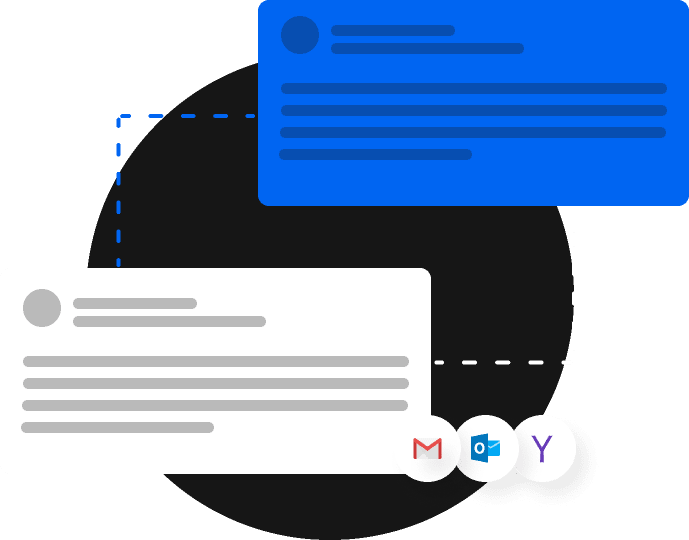
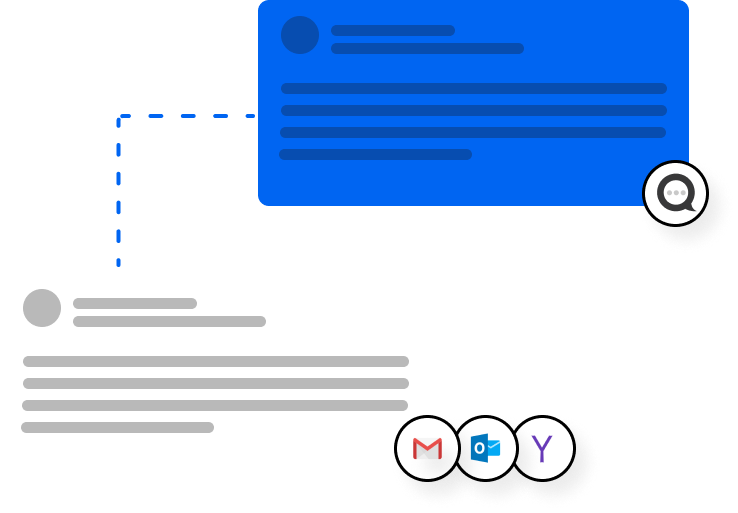
minor changes

diff --git a/index.html b/index.html
@@ -88,7 +88,7 @@
         <div class="meet-the-team">
             <img class="meet-the-team-img" src="./assets/buissnes.png" alt="">
             <div class="art-99">
-                <h2>Ask for Dmails pitch deck for investment purposes.</h2>
+                <h1>Investment Details</h1>
                 <p>Since Dmails started it's a minimum viable product in June 2019, we have received many requested from
                     VCs and angel
                     investors willing to discuss our future plans for investment proposes, it was taking some time for
@@ -96,7 +96,7 @@
                     essential information about our company, this is why we have prepared a fully detailed investor
                     pitch deck ready for
                     them.</p>
-                <p>Submit The Following Form </p>
+                <p>Kindly fill the following form and we will get back to you as soon as possible </p>
                 <hr>
                 <div class="news-letter-r-1">
                     <p class="grey qoute">The Following Pieces of information are required from your side to proceed
@@ -129,7 +129,7 @@
         <div class="meet-the-team">
             <img class="meet-the-team-img" src="./assets/buissnes.png" alt="">
             <div class="art-99">
-                <h2>Ask for Dmails pitch deck for investment purposes.</h2>
+                <h2>Investment Details</h2>
                 <p>Since Dmails started it's a minimum viable product in June 2019, we have received many requested from
                     VCs and angel
                     investors willing to discuss our future plans for investment proposes, it was taking some time for
@@ -137,11 +137,11 @@
                     essential information about our company, this is why we have prepared a fully detailed investor
                     pitch deck ready for
                     them.</p>
-                <p>Submit The Following Form </p>
+                <p>Kindly fill the following form and we will get back to you as soon as possible </p>
                 <hr>
                 <div class="news-letter-r-1">
                     <p class="grey qoute">The Following Pieces of information are required from your side to proceed
-                        further.</p>
+                    further.</p>
 
                     <form class="form-group" id="buissnes-2">
                         <div class="input">
@@ -160,7 +160,6 @@
                 <div class="popup-button">
                     <div onclick="submitId5()" class="Submit" 
                         >Submit</div>
-                    <p>By submitting this form, you agree with Dmail's Privacy Policy</p>
                 </div>
 
             </div>
@@ -349,7 +348,7 @@
             <p data-aos="fade-right" data-aos-duration="1500" class="s1-head">Total Earned +$85,000 From App Mining</p>
             <h1 data-aos="fade-right" data-aos-duration="1500" class="Feature-Title">Rated the best App by the People
             </h1>
-            <h3 class="push"> <span id="g">trymyUI</span>,<span id="o"> Product Hunt</span>,<span id="p">New Internet Labs </span> and <span id="c"> Awario </span><br>are the Four independent  reviewers who are incharge of the <br>App mining Reviews</h3>
+            <h3 class="push"> <span id="g">trymyUI</span>,<span id="o"> Product Hunt</span>,<span id="p"> New Internet Labs </span> and <span id="c"> Awario </span><br>are the Four independent  reviewers who are incharge of the <br>App mining Reviews</h3>
             <p data-aos="fade-right" data-aos-duration="1500" class="Feature-Body">Traditionally the term mining in
                 cryptocurrency refers to the process of contributing compute resources to the network
                 and earning a reward. In the Blockstack Ecosystem, instead of just mining through computation,
@@ -383,8 +382,8 @@
                     <img class="rate-grey-card-img" src="./assets/ratemyui.png" alt="">
                     <p class="rate-grey-card-text">TryMyUI is a usability online testing platform that enables website
                         and app developers to get feedback from real users.
-                        Dmails has Improved in the last four Months because of perfect Reviews Like this.</p>
-                    <a target="_blank" href="http://www.trymyui.com/pva/86gGGY7eOTyLSN2w" class="review-button">Watch
+                        Dmails has Improved in the last four months because of perfect Reviews Like this.</p>
+                    <a target="_blank" href="http://www.trymyui.com/pva/86gGGY7eOTyLSN2w" class="review-button">Watch a
                         Review</a>
                 </div>
                 <div class="rate-grey-card-1">
@@ -429,17 +428,17 @@
                     <img class="rate-grey-card-img" src="./assets/ratemyui.png" alt="">
                     <p class="rate-grey-card-text">TryMyUI is a usability online testing platform that enables website
                         and app developers to get feedback from real users.
-                        Dmails has Improved in the last four Mounths because of perfect Reviews Like this.</p>
-                    <a target="_blank" href="http://www.trymyui.com/pva/86gGGY7eOTyLSN2w" class="review-button">Watch
+                        Dmails has Improved in the last four mounths because of perfect Reviews Like this.</p>
+                    <a target="_blank" href="http://www.trymyui.com/pva/86gGGY7eOTyLSN2w" class="review-button">Watch a
                         Review</a>
                 </div>
                 <div class="grey-card">
                     <img class="rate-grey-card-img-1" src="./assets/NIL.png" alt="">
                     <p class="rate-grey-card-text-1">New Internet Labs evaluates apps submitted to the App Mining
                         program based on how well they
-                        protect the fundamental digital rights of users, Dmails has Scored Perfectly for Four
-                        Consecutive Mounths for Upholding
-                        the Decentralized standards of Privacy.</p>
+                        protect the fundamental digital rights of users, Dmails has scored perfectly for four
+                        consecutive mounths for upholding
+                        the decentralized standards of Privacy.</p>
                     <a target="_blank" href="https://www.newinternetlabs.com/" class="review-button-1">Visit</a>
                 </div>
                 <div class="grey-card">
@@ -491,12 +490,12 @@
                     are
                     not owned by <br> Dmails,
                     but it lives on a
-                    decentralized network. This <br> allow users to emails directly to their contact <br> without having
+                    decentralized network. This <br> allow users send messages directly to their contact <br> without having
                     to
-                    remember which email provider <br> your contact is using.</p>
+                    remember which Email service provider <br> your contact is using.</p>
                 <div data-aos="fade-in" data-aos-duration="1500" class="s2-button">
                     <a href="https://app.dmail.online/" class="create">Create Account</a>
-                    <p class="s2-tip">Dmails is 100% free to use. We don't <br>need your personal information.</p>
+                    <p class="s2-tip">Dmails is 100% private and secure. We don't need your personal information.</p>
                 </div>
             </div>
         </div>
@@ -515,7 +514,7 @@
                     kept private and no one can sell <br>your personal data to a third party to abuse.</p>
                 <div data-aos="fade-in" data-aos-duration="1500" class="s2-button">
                     <a href="https://app.dmail.online/" class="create">Create Account</a>
-                    <p class="s2-tip">Dmails is 100% free to use. We don't need your personal information.</p>
+                    <p class="s2-tip">Dmails is 100% private and secure. We don't need your personal information.</p>
                 </div>
             </div>
             <div data-aos="fade-left" data-aos-duration="1500" class="Dmail-Feature-1" src="" alt="Feature"></div>
@@ -525,16 +524,16 @@
             <div data-aos="fade-right" data-aos-duration="1500" class="Dmail-Feature-2" alt="Feature"></div>
             <div class="art-3">
                 <p data-aos="fade-left" data-aos-duration="1500" class="s1-head">Payment & Invoice</p>
-                <h1 data-aos="fade-left" data-aos-duration="1500" class="Feature-Title">Send & Pay <br>Invoice With<br>
+                <h1 data-aos="fade-left" data-aos-duration="1500" class="Feature-Title">Send & Pay <br>Invoices With<br>
                     Cryptocurrency</h1>
-                <p data-aos="fade-left" data-aos-duration="1500" class="Feature-Body-4">Dmail's payment technology is
-                    powered by <br>Lightning
+                <p data-aos="fade-left" data-aos-duration="1500" class="Feature-Body-4">Dmails' payment technology is
+                    powered by <br>BTC Lightning
                     Network that allows fast
                     and cheaper <br>transaction for everyone. This makes it easy for<br> everyone to send and request
                     payment such as<br> Bitcoin directly from Dmails and get paid faster and<br>cheaper. </p>
                 <div data-aos="fade-in" data-aos-duration="1500" class="s2-button">
                     <a href="https://app.dmail.online/" class="create">Create Account</a>
-                    <p class="s2-tip">Dmails is 100% free to use. We don't need your personal information.</p>
+                    <p class="s2-tip">This service might not be available in some countries due to regularity issues</p>
                 </div>
             </div>
         </div>
@@ -543,25 +542,24 @@
                 <p data-aos="fade-right" data-aos-duration="1500" class="s1-head">File Management</p>
                 <h1 data-aos="fade-right" data-aos-duration="1500" class="Feature-Title">Access All Your Attatchments
                     Securely.</h1>
-                <p data-aos="fade-right" data-aos-duration="1500" class="Feature-Body">Attach files to your email
+                <p data-aos="fade-right" data-aos-duration="1500" class="Feature-Body">Attach files to your Email
                     instantly
                     through a private,<br>
                     high performance
-                    decentralized network. Simply <br>drag your files on D-Drive and easily attach it to<br> your email
-                    to
-                    send those files without reuploading <br>them again.</p>
+                    decentralized network. Simply <br>drag your files on the D-Drive section and easily attach it to<br> your Email
+                    with a few clicks</p>
                 <div data-aos="fade-in" data-aos-duration="1500" class="s2-button">
                     <a href="https://app.dmail.online/" class="create">Create Account</a>
-                    <p class="s2-tip">Dmails is 100% free to use. We don't need your personal information.</p>
-                </div>
+                    <p class="s2-tip">Dmails is private and secure. We don't need your personal information.</p>
+                </div>  
             </div>
             <div data-aos="fade-left" data-aos-duration="1500" class="Dmail-Feature-3" src="" alt=""></div>
         </div>
         <div class="s9">
             <div class="s9-title">
                 <h1 data-aos="fade-in" class="s9-title-1">Coming Soon</h1>
-                <p data-aos="fade-in" data-aos-duration="1500" class="s9-title-2">Get Notified When We Launch Our Mobile
-                    Application</p>
+                <p data-aos="fade-in" data-aos-duration="1500" class="s9-title-2">Get notified when We launch our mobile
+                    pplication</p>
             </div>
             <form class="form-group" id="notified">
                 <div class="s9-buttons">
@@ -582,12 +580,12 @@
                             <i class="fas fa-bell"></i>
                         </div>
                         <h3>Instant Notification</h3>
-                        <p>Get Instat Decentralized Notification To Notify you When You Rescive an Email </p>
+                        <p>Get instat decentralized notification to notify you when you rescive an Email. </p>
                     </div>
                     <div class="mobile-feature">
                         <div class="blue-circle"><i class="fas fa-lock-open"></i></div>
                         <h3>Easier Authentication</h3>
-                        <p>Easier Authentication Using Fingerprint Or Facial Recognition </p>
+                        <p>Easier authentication using fingerprint or facial recognition. </p>
                     </div>
                 </div>
                 <div class="tenta">
@@ -605,12 +603,12 @@
                     <div class="mobile-feature">
                         <div class="blue-circle"><i class="fas fa-bolt"></i></div>
                         <h3>BTC Lightning Payment</h3>
-                        <p>Faster Payment Transfare using BTC Lightning Network </p>
+                        <p>Faster and cheaper payment transfare using BTC lightning network. </p>
                     </div>
                     <div class="mobile-feature">
                         <div class="blue-circle"><i class="fas fa-box-open"></i></div>
                         <h3>D-Storage</h3>
-                        <p>Decenterlized Sorage Using Blockstack Gaia Storage System</p>
+                        <p>Save your files in Decenterlized sorage using blockstack technology</p>
                     </div>
                 </div>
             </div>
@@ -630,9 +628,9 @@
                 <div class="corp">
                     <div class="blue-card">
                         <h1 class="Team-Title">Corporate</h1>
-                        <p class="s7-2-text">Dmails Helps You Secure your internal Communication
-                            and keeps your Sensitve Emails from leaking.<br>
-                            Dmails gives you unique IDs <span id="green-text"> User.CompanyName.id </span> To give your
+                        <p class="s7-2-text">Dmails helps Your compnay secure your internal communication
+                            and keeping your Sensitve Emails from  being leaked.<br>
+                            Dmails gives you a unique decentralized identity system <span id="green-text"> Employee.id.CompnayName </span> To give your
                             corporate Emails
                             added Security.
 
@@ -652,8 +650,9 @@
                         <h1 class="Team-Title">Individuals </h1>
                         <div class="blue-card-1">
                             <h1 class="Team-Title-2">Individuals </h1>
-                            <p class="Team-text"> Dmails encrypts all your personal data and emails so you can email
-                                your friends without worrying that your data gets leaked or used for Ads
+                            <p class="Team-text"> Dmails encrypts all your personal data and E
+                                mails so you can send messages
+                                your friends without worrying about your data gets leaked or used for Ads....
                                 No More Spam.
                             </p>
                             <a href="https://app.dmail.online/login" class="create-5">Create Account</a>
@@ -668,7 +667,7 @@
                             <h1 class="Team-Title-2">Freelancers</h1>
                             <p class="Team-text">Dmails gives you the ability to control who can
                                 see your data, and Has integrated Cryptocurrency Payment to have
-                                all the tools for your buissnes in one place
+                                all the tools for your buissnes in one place.send invoices and get paid instantly with 0% fees. 
                             </p>
                             <a href="https://app.dmail.online/login" class="create-5">Create Account</a>
                         </div>
@@ -763,8 +762,8 @@
             <div class="element-1-2">
                 <p class="roadmap-p">Dmails encrypts all communication and <br> keep your information private in a
                     <br> decentralized network using Blockstack. </p>
-                <p class="blue-road-map-box">Desktop Version</p>
-                <p class="blue-road-map-box">Integration</p>
+                <p class="blue-road-map-box">launcing MacOS / Windows versions.</p>
+                <p class="blue-road-map-box">Platform integration</p>
             </div>
         </div>
     </div>
@@ -867,7 +866,7 @@
             <img class="star" src="./assets/star.png" alt="">
         </div>
         <div class="s10-title">
-            <h1 class="s10-title-1">Trusted By Over 4,000+ <br> People Worldwide</h1>
+            <h1 class="s10-title-1">Trusted By Over 5,000+ <br> People Worldwide</h1>
         </div>
         <div class="glider-contain">
             <div class="glider0">
@@ -1022,7 +1021,7 @@
         <a target="_blank" href="https://docs.dmails.io/" class="align44"><span id="lighten">Documentation</span></a>
         <a target="_blank" href="https://app.graphitedocs.com/shared/docs/dmails.id&id=1561893733182"
             class="align44"><span id="lighten">Privacy</span></a>
-        <a target="_blank" href="#" class="align44"><span id="lighten">Airdrops</span></a>
+        <a target="_blank" href="./personal.html" class="align44"><span id="lighten">Airdrops</span></a>
     </div>
     <div class="footer-1">
         <a href="#" class="align44">Blockstack</a>

diff --git a/personal.html b/personal.html
@@ -81,9 +81,7 @@
         <div class="personal-s2-content">
             <div class="personal-email">
                 <img src="./assets/Email-illustration.png" alt="">
-                <div class="s2-dmail-icon">
-                    <img src="./assets/email-brand01.png" alt="">
-                </div>
+                
             </div>
             <div class="personal-art2">
                 <div class="personal-feature">
@@ -134,22 +132,7 @@
                 </div>
             </div>
             <div class="users">
-                <div class="blue-user-bar">
-                    <img class="personal-user" src="./assets/personal-user.png" alt="">
-                    <p class="user-id">john.id.blockstack</p>
-                </div>
-                <div class=" push blue-user-bar">
-                    <img class="personal-user" src="./assets/personal-user.png" alt="">
-                    <p class="user-id">abdou.dmails.id</p>
-
-                </div>
-                <div class="blue-user-bar">
-                    <img class="personal-user" src="./assets/personal-user.png" alt="">
-                    <p class="user-id">mustafa.id</p>
-                </div>
-                <img class="top-blue-banner" src="./assets/blockstack-icon.png" alt="">
-                <img class="middle-blue-banner" src="./assets/email-brand01.png" alt="">
-                <img class="bottom-blue-banner" src="./assets/blockstack-icon.png" alt="">
+                <img src="./assets/personal-users.png" alt="">
             </div>
         </div>
         <div class="footer">

diff --git a/personal.css b/personal.css
@@ -41,7 +41,7 @@
 }
 
 .blue-banner {
-    height: 375px;
+    height: 328px;
 }
 
 .personal-s1-title {
@@ -127,7 +127,7 @@
 .personal-s2-content {
     display: flex;
     flex-direction: row;
-    justify-content: center;
+    justify-content: space-evenly;
     padding-top: 6%;
     padding-left: 0%;
 }
@@ -176,35 +176,8 @@
 }
 
 .users {
-    display: flex;
-    flex-direction: column;
-    align-items: center;
-    position: relative;
-    width: 50%;
-}
-
-.top-blue-banner {
-    position: absolute;
-    width: 77px;
-    object-fit: contain;
-    right: 7%;
-    top: -1%;
-}
-
-.middle-blue-banner {
-    position: absolute;
-    bottom: 62%;
-    right: -1%;
-    width: 77px;
-    object-fit: contain;
-}
-
-.bottom-blue-banner {
-    position: absolute;
-    bottom: 38%;
-    right: 9%;
-    width: 77px;
-    object-fit: contain;
+    width: 44%;
+    object-fit: contain
 }
 
 .blue-user-bar {

diff --git a/style.css b/style.css
@@ -1143,7 +1143,7 @@ body {
 }
 
 .login-3-3 {
-  width: 165px;
+  width: 185px;
   height: 48px;
   border: 1px solid white;
   background: #0065f2;
@@ -1152,11 +1152,11 @@ body {
   align-items: center;
   color: white;
   border-radius: 65px;
-  font-size: 12px;
+  font-size: 14px;
 }
 
 .create-3-3 {
-  width: 165px;
+  width: 185px;
   height: 48px;
   border: 1px solid #0065f2;
   background: white;
@@ -1166,7 +1166,7 @@ body {
   align-items: center;
   border-radius: 65px;
   margin-left: 5px;
-  font-size: 12px;
+  font-size: 14px;
 }
 
 .login-3:hover {
@@ -1951,6 +1951,7 @@ body {
 
 .bold {
   font-weight: bold !important;
+  padding-top: 20px;
 }
 
 .pricing, .pricing-1 {
